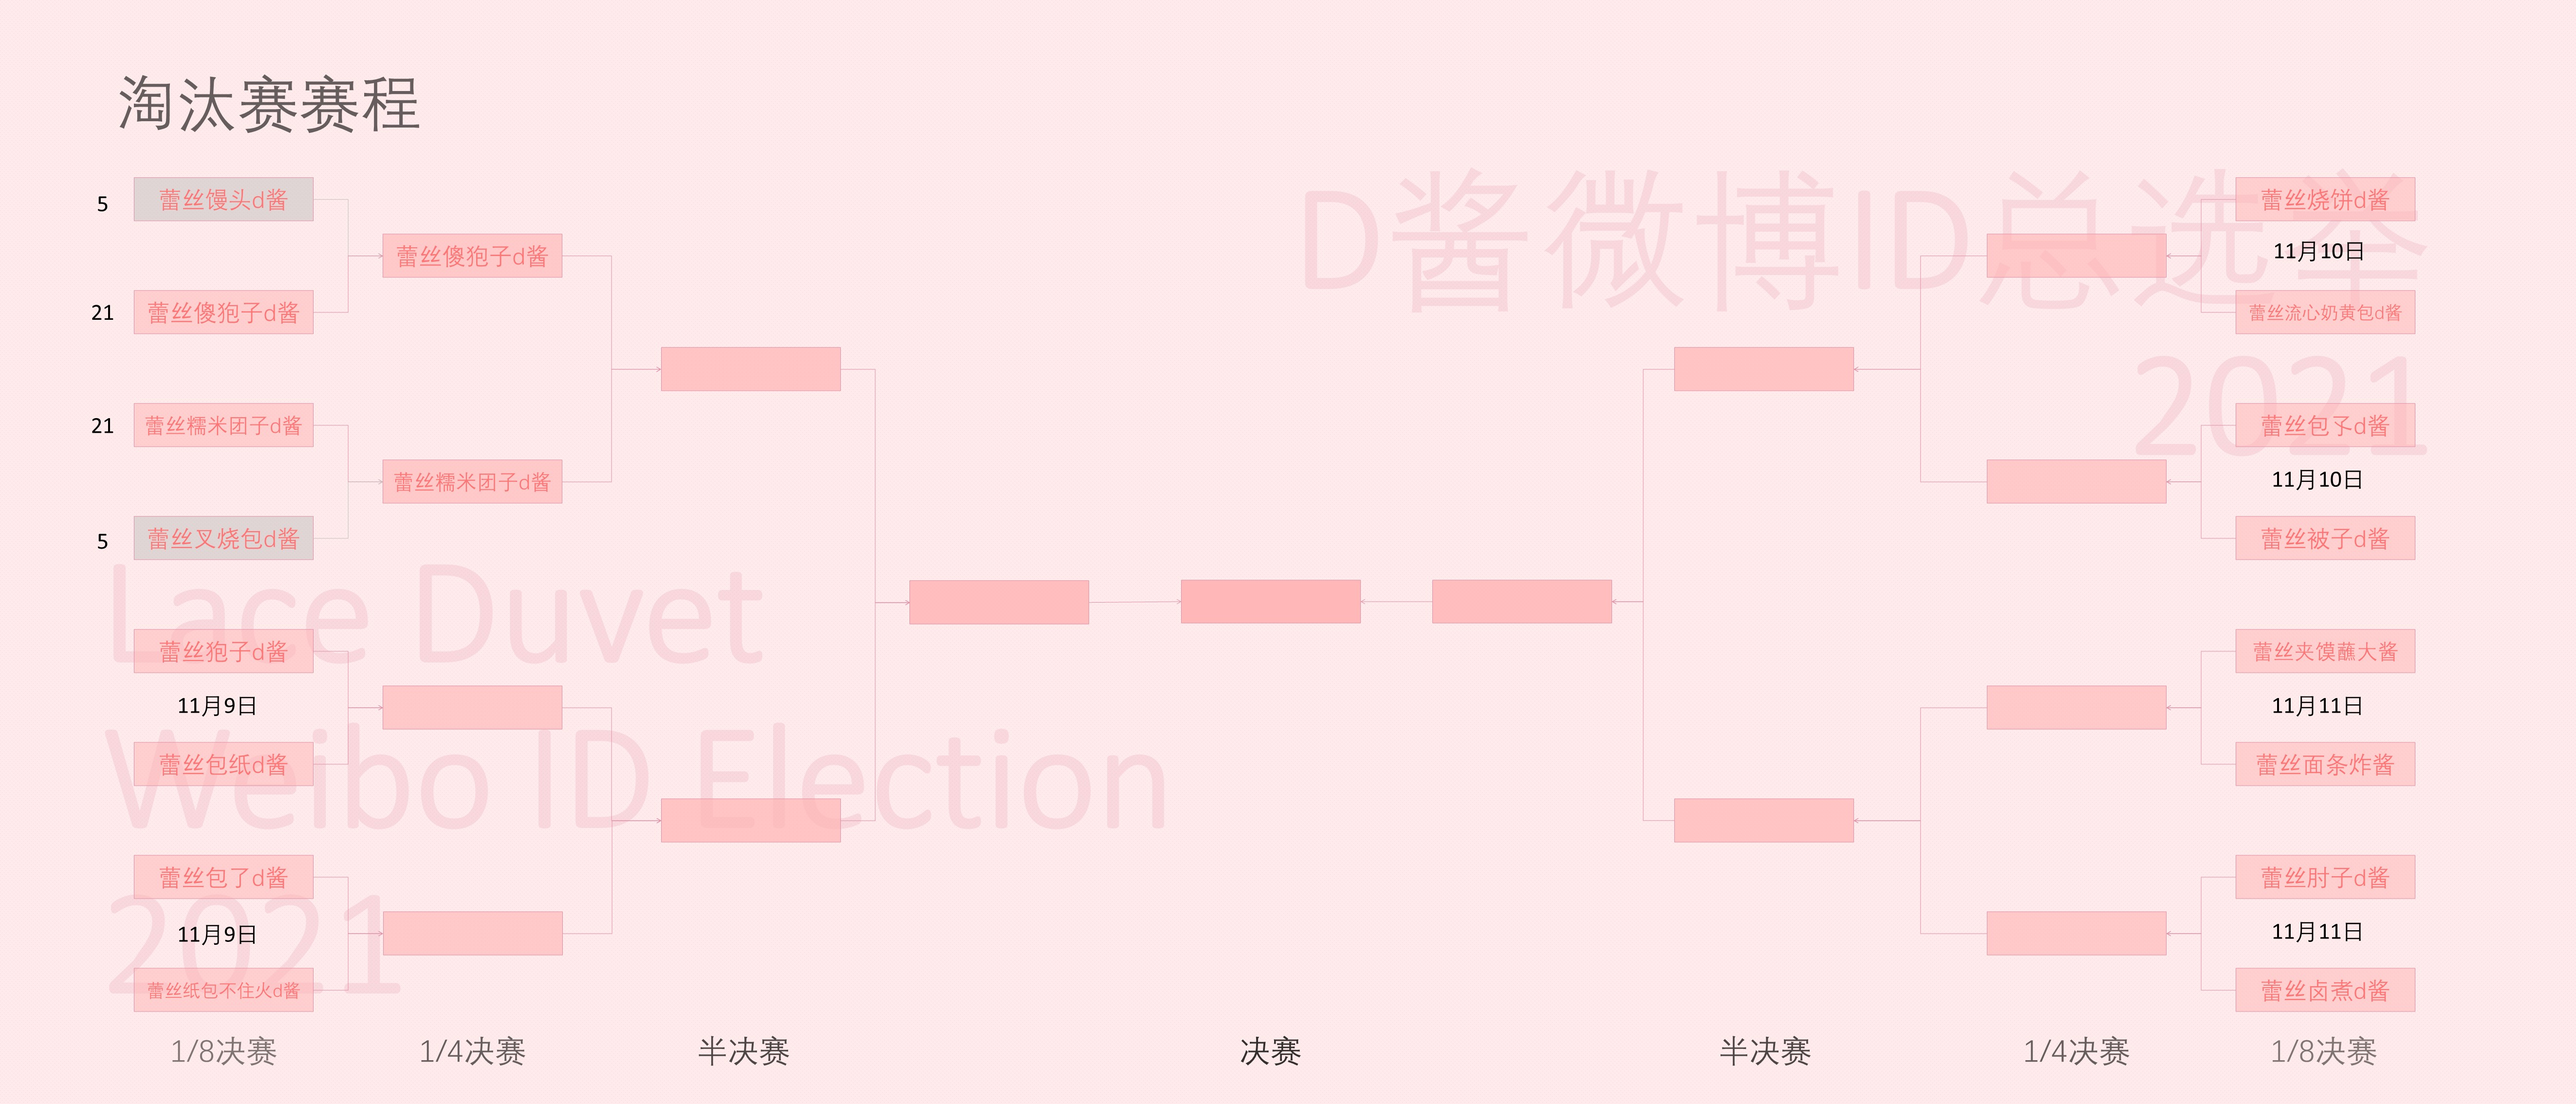
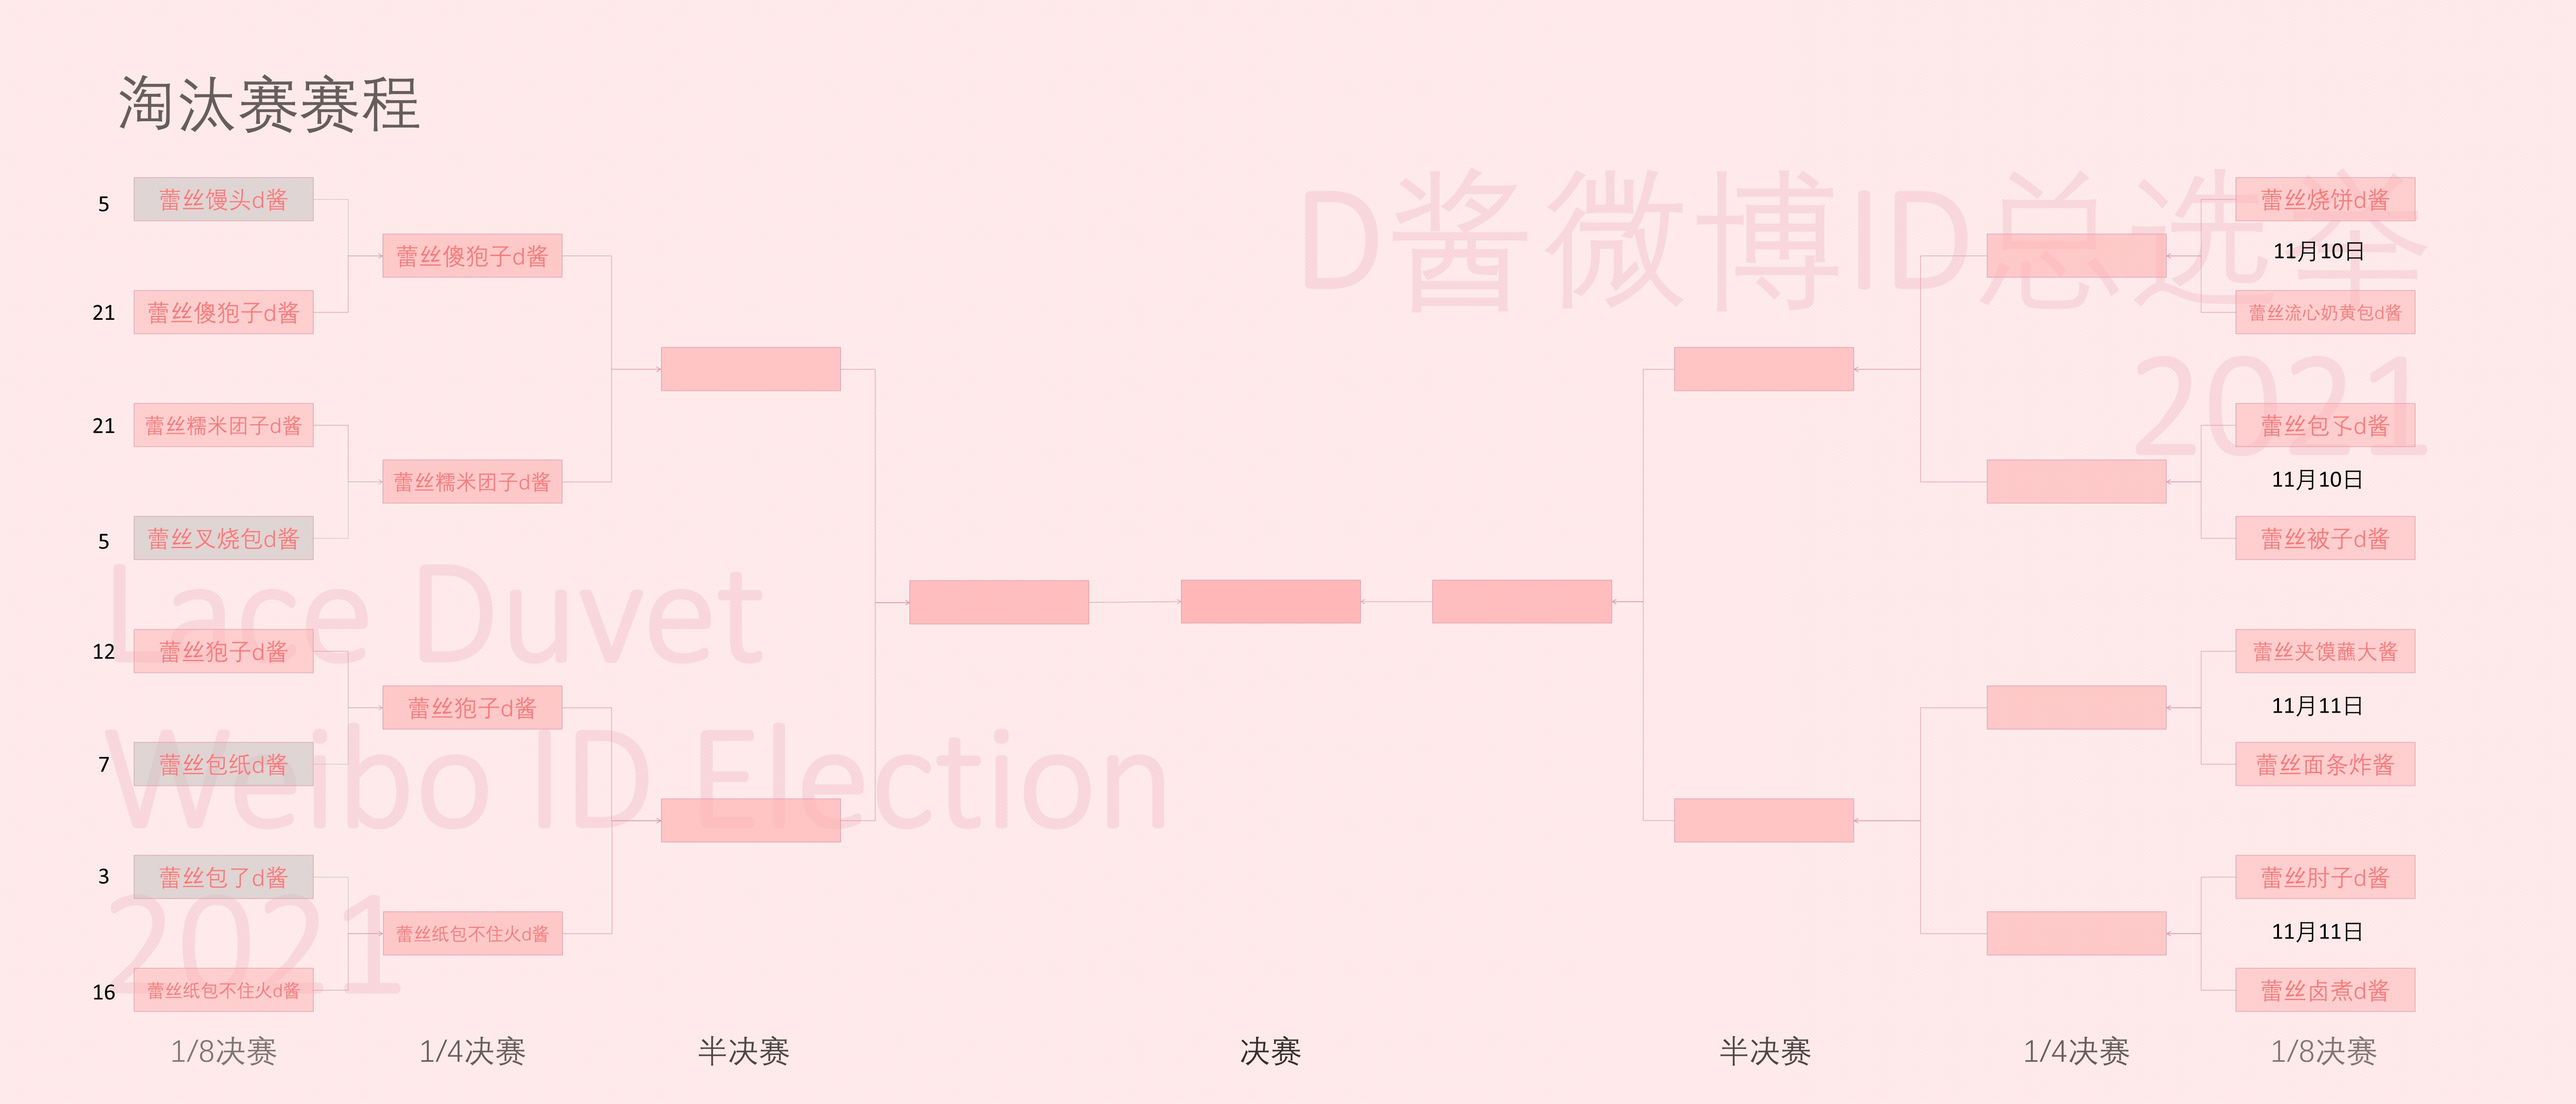
更新1/8决赛第二天信息

diff --git a/set_group_race_result.py b/set_group_race_result.py
@@ -1,36 +1,25 @@
 from candidate_utils import set_race_result_by_group, get_candidate_info_by_group
 
-result_c = {
-    '蕾丝流心奶黄包d酱': [19, True],
-    '蕾丝面条炸酱': [12, True],
-    '蕾丝傻子d酱': [9, False],
-    '蕾丝勺子d酱': [2, False],
-    '蕾丝雹子d酱': [3, False],
-    '蕾丝包孑d酱': [2, False]
-}
-result_g = {
-    '蕾丝糯米团子d酱': [18, True],
-    '蕾丝包了d酱': [10, True],
-    '蕾丝烧卖d酱': [8, False],
-    '蕾丝锅盔d酱': [4, False],
-    '蕾丝元宵d酱': [3, False]
-}
-result_d = {
-    '蕾丝被子d酱': [14, True],
-    '蕾丝包孓d酱': [6, True],
-    '蕾丝麻酱糖饼d酱': [5, False],
-    '蕾丝勾子d酱': [3, False],
-    '蕾丝汤圆d酱': [3, False],
-    '法蕾缝纫机d酱': [2, False]
-}
-result_h = {
-    '蕾丝叉烧包d酱': [13, True],
-    '蕾丝夹馍蘸大酱': [9, True],
-    '蕾丝粽子d酱': [5, False],
-    '蕾丝丸子d酱': [4, False],
-    '蕾包子丝d酱': [4, False]
-}
+result = {"A": {
+    '蕾丝馒头d酱': [5, False],
+    '蕾丝傻狍子d酱': [21, True]
+    },
+    "B":{
+    '蕾丝糯米团子d酱': [21, True],
+    '蕾丝叉烧包d酱': [5, False]
+    },
+    "C": {
+        '蕾丝狍子d酱': [12, True],
+    '蕾丝包纸d酱': [7, False]
+    },
+    "D": {
+        '蕾丝包了d酱': [3, False],
+    '蕾丝纸包不住火d酱': [16, True]
+    }}
 
 if __name__ == '__main__':
-    group = 'H'
-    set_race_result_by_group(group, result_h)
+    for group, r in result.items():
+        print(group)
+        print(r)
+        set_race_result_by_group(group=group, result=r)
+        get_candidate_info_by_group(group)

diff --git a/candidate_utils/__init__.py b/candidate_utils/__init__.py
@@ -32,9 +32,10 @@ def get_candidate_info_by_group(group: str):
     candidate_list = []
     for path in candidate_path_list:
         candidate: Candidate = read_from_archive(os.path.join(profile_path, path))
+        # print(candidate.dump())
         if group == 'all':
             candidate_list.append(candidate)
-        elif candidate.race_history.half_quarter_race.group == group:
+        elif candidate.race_history.half_quarter_race and candidate.race_history.half_quarter_race.group == group:
             candidate_list.append(candidate)
     return candidate_list
 
